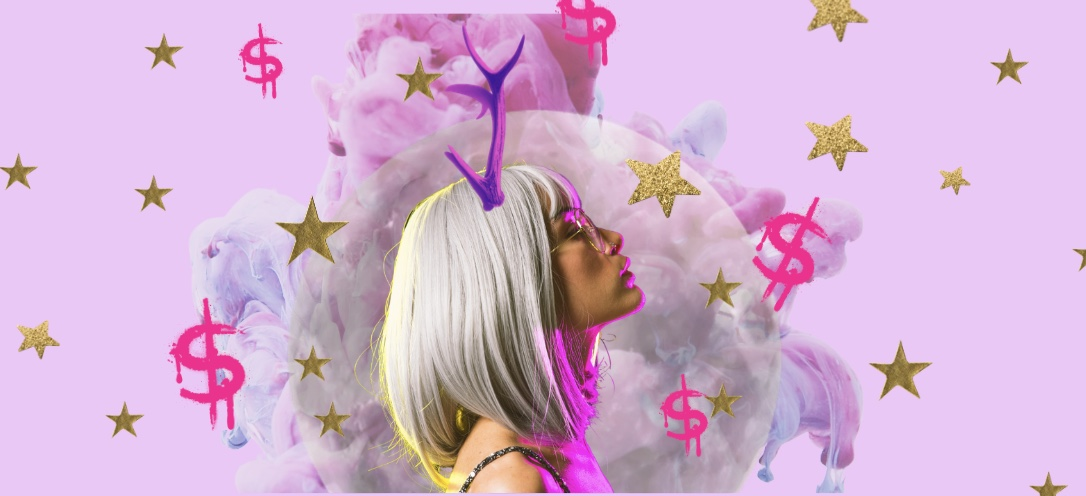
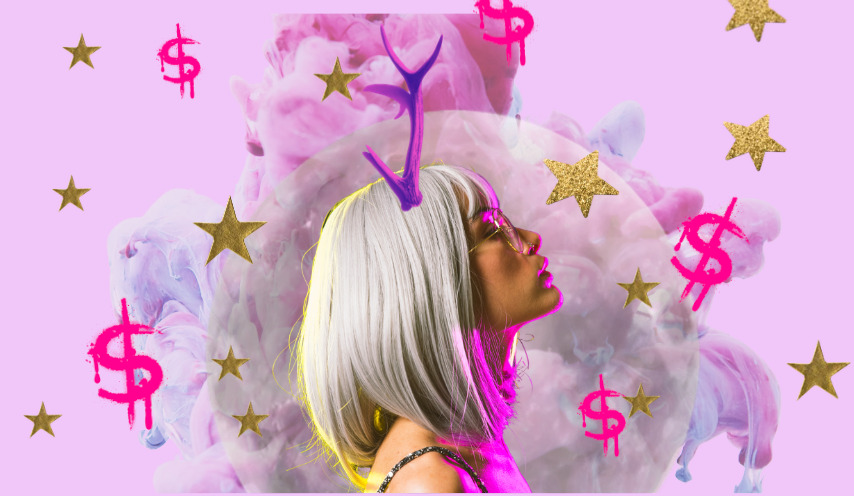
MOONIFEST: lilac hero matching the artwork, picture big, less text; events in the offer-page look

diff --git a/src/app/events/bad-bitches-moonifest/page.tsx b/src/app/events/bad-bitches-moonifest/page.tsx
@@ -2,7 +2,7 @@ import type { Metadata } from "next";
 import Link from "next/link";
 import { notFound } from "next/navigation";
 import { Band, Tiles, ForYouIf } from "@/components/Offer";
-import { EventPoster } from "@/components/EventArt";
+import { EventHeroImage } from "@/components/EventArt";
 import EventBookingForm from "@/components/EventBookingForm";
 import { getEvent } from "@/lib/events";
 import { OG_IMAGE, SITE_URL } from "@/lib/site";
@@ -20,7 +20,7 @@ export const metadata: Metadata = {
     description: "Money, Magic & Manifestation, Taurus Full Moon Edition. Live workshop + personalised astrology report + replay for $44.",
     url: `/events/${SLUG}`,
     type: "website",
-    images: [{ url: "/events/taurus-full-moon.jpg", width: 1086, height: 496 }, OG_IMAGE],
+    images: [{ url: "/events/taurus-full-moon.jpg", width: 854, height: 496 }, OG_IMAGE],
   },
   twitter: { card: "summary_large_image" },
 };
@@ -79,34 +79,27 @@ export default function MoonifestPage() {
     <>
       <script type="application/ld+json" dangerouslySetInnerHTML={{ __html: JSON.stringify(jsonLd) }} />
 
-      {/* Hero, in the same shape as the offer pages: pink, black headline, white accent, tilted cover */}
-      <section className="px-5 md:px-8" style={{ background: "var(--pink)", borderBottom: "var(--border)", paddingTop: 64, paddingBottom: 80 }}>
-        <div className="max-w-6xl mx-auto grid grid-cols-1 md:grid-cols-[1.15fr_0.85fr] gap-12 items-center">
-          <div>
+      {/* Hero: the background is the artwork's own lilac, so the picture melts into the page and sits
+          on the bottom edge like the homepage collage. Text is dark/pink only: white fails on lilac. */}
+      <section className="px-5 md:px-8 overflow-hidden" style={{ background: event.heroBg ?? "var(--lav-light)", borderBottom: "var(--border)", paddingTop: 56 }}>
+        <div className="max-w-7xl mx-auto grid grid-cols-1 lg:grid-cols-[0.62fr_1.38fr] gap-4 lg:gap-6 items-end">
+          <div className="lg:pb-16">
             <Link href="/events" className="no-underline" style={{ fontSize: 11, fontWeight: 700, letterSpacing: "0.16em", textTransform: "uppercase", color: "var(--dark)" }}>← all events</Link>
-            <div style={{ fontSize: 11, fontWeight: 700, letterSpacing: "0.18em", textTransform: "uppercase", color: "#fff", margin: "26px 0 22px" }}>🌕 taurus full moon edition</div>
-            <h1 className="display" style={{ fontSize: "clamp(46px, 7.5vw, 100px)", color: "var(--dark)", lineHeight: 0.95 }}>
+            <div style={{ margin: "24px 0 22px" }}><span className="holo-sticker">🌕 taurus full moon edition</span></div>
+            <h1 className="display" style={{ fontSize: "clamp(46px, 4.6vw, 68px)", color: "var(--dark)", lineHeight: 0.95 }}>
               bad b*tches
               <br />
-              <span style={{ color: "#fff" }}>moonifest.</span>
+              <span className="pk">moonifest.</span>
             </h1>
-            <div style={{ fontSize: "clamp(17px, 2.2vw, 21px)", lineHeight: 1.65, color: "var(--dark)", maxWidth: 620, marginTop: 26, fontWeight: 600 }}>
-              <p style={{ fontFamily: pp, fontWeight: 800, color: "#fff", margin: "0 0 14px" }}>Money, Magic &amp; Manifestation.</p>
-              <p style={{ margin: 0 }}>A live Full Moon workshop, your own astrology report written from YOUR birth chart and the full replay, for the baddies who are SOOO ready to call in more money, more pleasure and more of what they&apos;re worth.</p>
-            </div>
-            <div style={{ marginTop: 26, color: "var(--dark)" }}>
-              <div style={{ fontFamily: pp, fontWeight: 800, fontSize: 18 }}>Monday 26 October · 6:30pm UK</div>
-              <div style={{ fontSize: 14, fontWeight: 600, marginTop: 4 }}>
-                11:30am LA · 2:30pm New York · 5:30am Tue Sydney · <a href="#times" style={{ color: "var(--dark)", textDecoration: "underline" }}>all times</a>
-              </div>
-            </div>
-            <div className="flex flex-wrap items-center gap-5" style={{ marginTop: 32 }}>
+            <p style={{ fontFamily: pp, fontWeight: 800, fontSize: "clamp(17px, 1.5vw, 20px)", color: "var(--dark)", margin: "18px 0 0" }}>Money, Magic &amp; Manifestation.</p>
+            <p style={{ fontFamily: pp, fontWeight: 800, fontSize: 17, color: "var(--dark)", margin: "14px 0 0" }}>🗓 Mon 26 Oct · 6:30pm UK</p>
+            <div className="flex flex-wrap items-center gap-5" style={{ marginTop: 26 }}>
               <a href="#book" className="no-underline" style={button("var(--dark)")}>{event.cta}</a>
               <span style={{ fontFamily: pp, fontSize: 16, fontWeight: 800, color: "var(--dark)" }}>$44 USD</span>
             </div>
           </div>
-          <div className="flex justify-center" style={{ paddingBottom: 12 }}>
-            <EventPoster event={event} priority />
+          <div className="event-hero-art -mx-5 md:-mx-8 lg:ml-0">
+            <EventHeroImage event={event} />
           </div>
         </div>
       </section>

diff --git a/src/components/EventArt.tsx b/src/components/EventArt.tsx
@@ -15,7 +15,7 @@ function Placeholder() {
 // The event's artwork as a landscape card, for listings.
 export default function EventArt({ event, priority = false }: { event: CosmicEvent; priority?: boolean }) {
   return (
-    <div style={{ position: "relative", aspectRatio: "1086 / 496", overflow: "hidden", background: "var(--lav-light)", borderBottom: "var(--border)" }}>
+    <div style={{ position: "relative", aspectRatio: "854 / 496", overflow: "hidden", background: "var(--lav-light)", borderBottom: "var(--border)" }}>
       {hasImage(event) ? (
         <Image src={event.image!} alt={event.imageAlt ?? event.title} fill sizes="(max-width: 768px) 100vw, 420px" priority={priority} style={{ objectFit: "cover" }} />
       ) : (
@@ -54,5 +54,24 @@ export function EventPoster({ event, priority = false, tilt = -3 }: { event: Cos
         </div>
       </div>
     </div>
+  );
+}
+
+// The artwork at full size for an event hero whose background is set to the art's own colour
+// (heroBg), so the picture's edges disappear into the page. The top fades out because the collage
+// is cut off along its top edge.
+export function EventHeroImage({ event }: { event: CosmicEvent }) {
+  const fade = "linear-gradient(to bottom, transparent 0, #000 14%)";
+  if (!hasImage(event)) return <div style={{ position: "relative", width: "100%", aspectRatio: "854 / 496" }}><Placeholder /></div>;
+  return (
+    <Image
+      src={event.image!}
+      alt={event.imageAlt ?? event.title}
+      width={854}
+      height={496}
+      priority
+      sizes="(max-width: 1024px) 100vw, 60vw"
+      style={{ display: "block", width: "100%", height: "auto", WebkitMaskImage: fade, maskImage: fade }}
+    />
   );
 }

diff --git a/src/lib/events.ts b/src/lib/events.ts
@@ -29,6 +29,8 @@ export interface CosmicEvent {
   /** Public path under /public. Missing file falls back to the drawn artwork. */
   image?: string;
   imageAlt?: string;
+  /** The artwork's own background colour, so the event hero melts into the image. */
+  heroBg?: string;
   shortDescription: string;
   cta: string;
   /** Stripe Payment Link for paid events. */
@@ -66,6 +68,7 @@ export const EVENTS: CosmicEvent[] = [
     price: 44,
     format: "Live online workshop + personalised astrology report + replay",
     image: "/events/taurus-full-moon.jpg",
+    heroBg: "#F1C7F9",
     imageAlt: "Taurus full moon artwork: a silver-haired woman with Taurus horns, pink dollar signs and gold stars on lilac",
     shortDescription:
       "Money, self-worth, pleasure and abundance under the Taurus Full Moon, with your own 7-10 page astrology report written for your birth chart before we go live.",

diff --git a/src/app/globals.css b/src/app/globals.css
@@ -831,3 +831,9 @@ html, body { overflow-x: hidden; }
   .holo-edge::before, .offer-card::before, .pcard::before, .btn-outline:hover, .btn-foil, .holo-sticker, .foil-text, .holo-shape { animation: none; }
   .btn-pink:hover::after { animation: none; opacity: 0; }
 }
+
+/* Event hero art: on wide screens it bleeds off the right edge of the page. Its edges are the hero's
+   own colour (the event's heroBg), so there is no visible box, just the picture. */
+@media (min-width: 1024px) { .event-hero-art { margin-right: min(-2rem, calc((80rem - 100vw) / 2)); } }
+/* Below the two-column layout the art is cropped to its middle so she stays big on a phone. */
+@media (max-width: 1023px) { .event-hero-art img { aspect-ratio: 6 / 5; object-fit: cover; object-position: 50% 100%; max-height: 520px; } }
